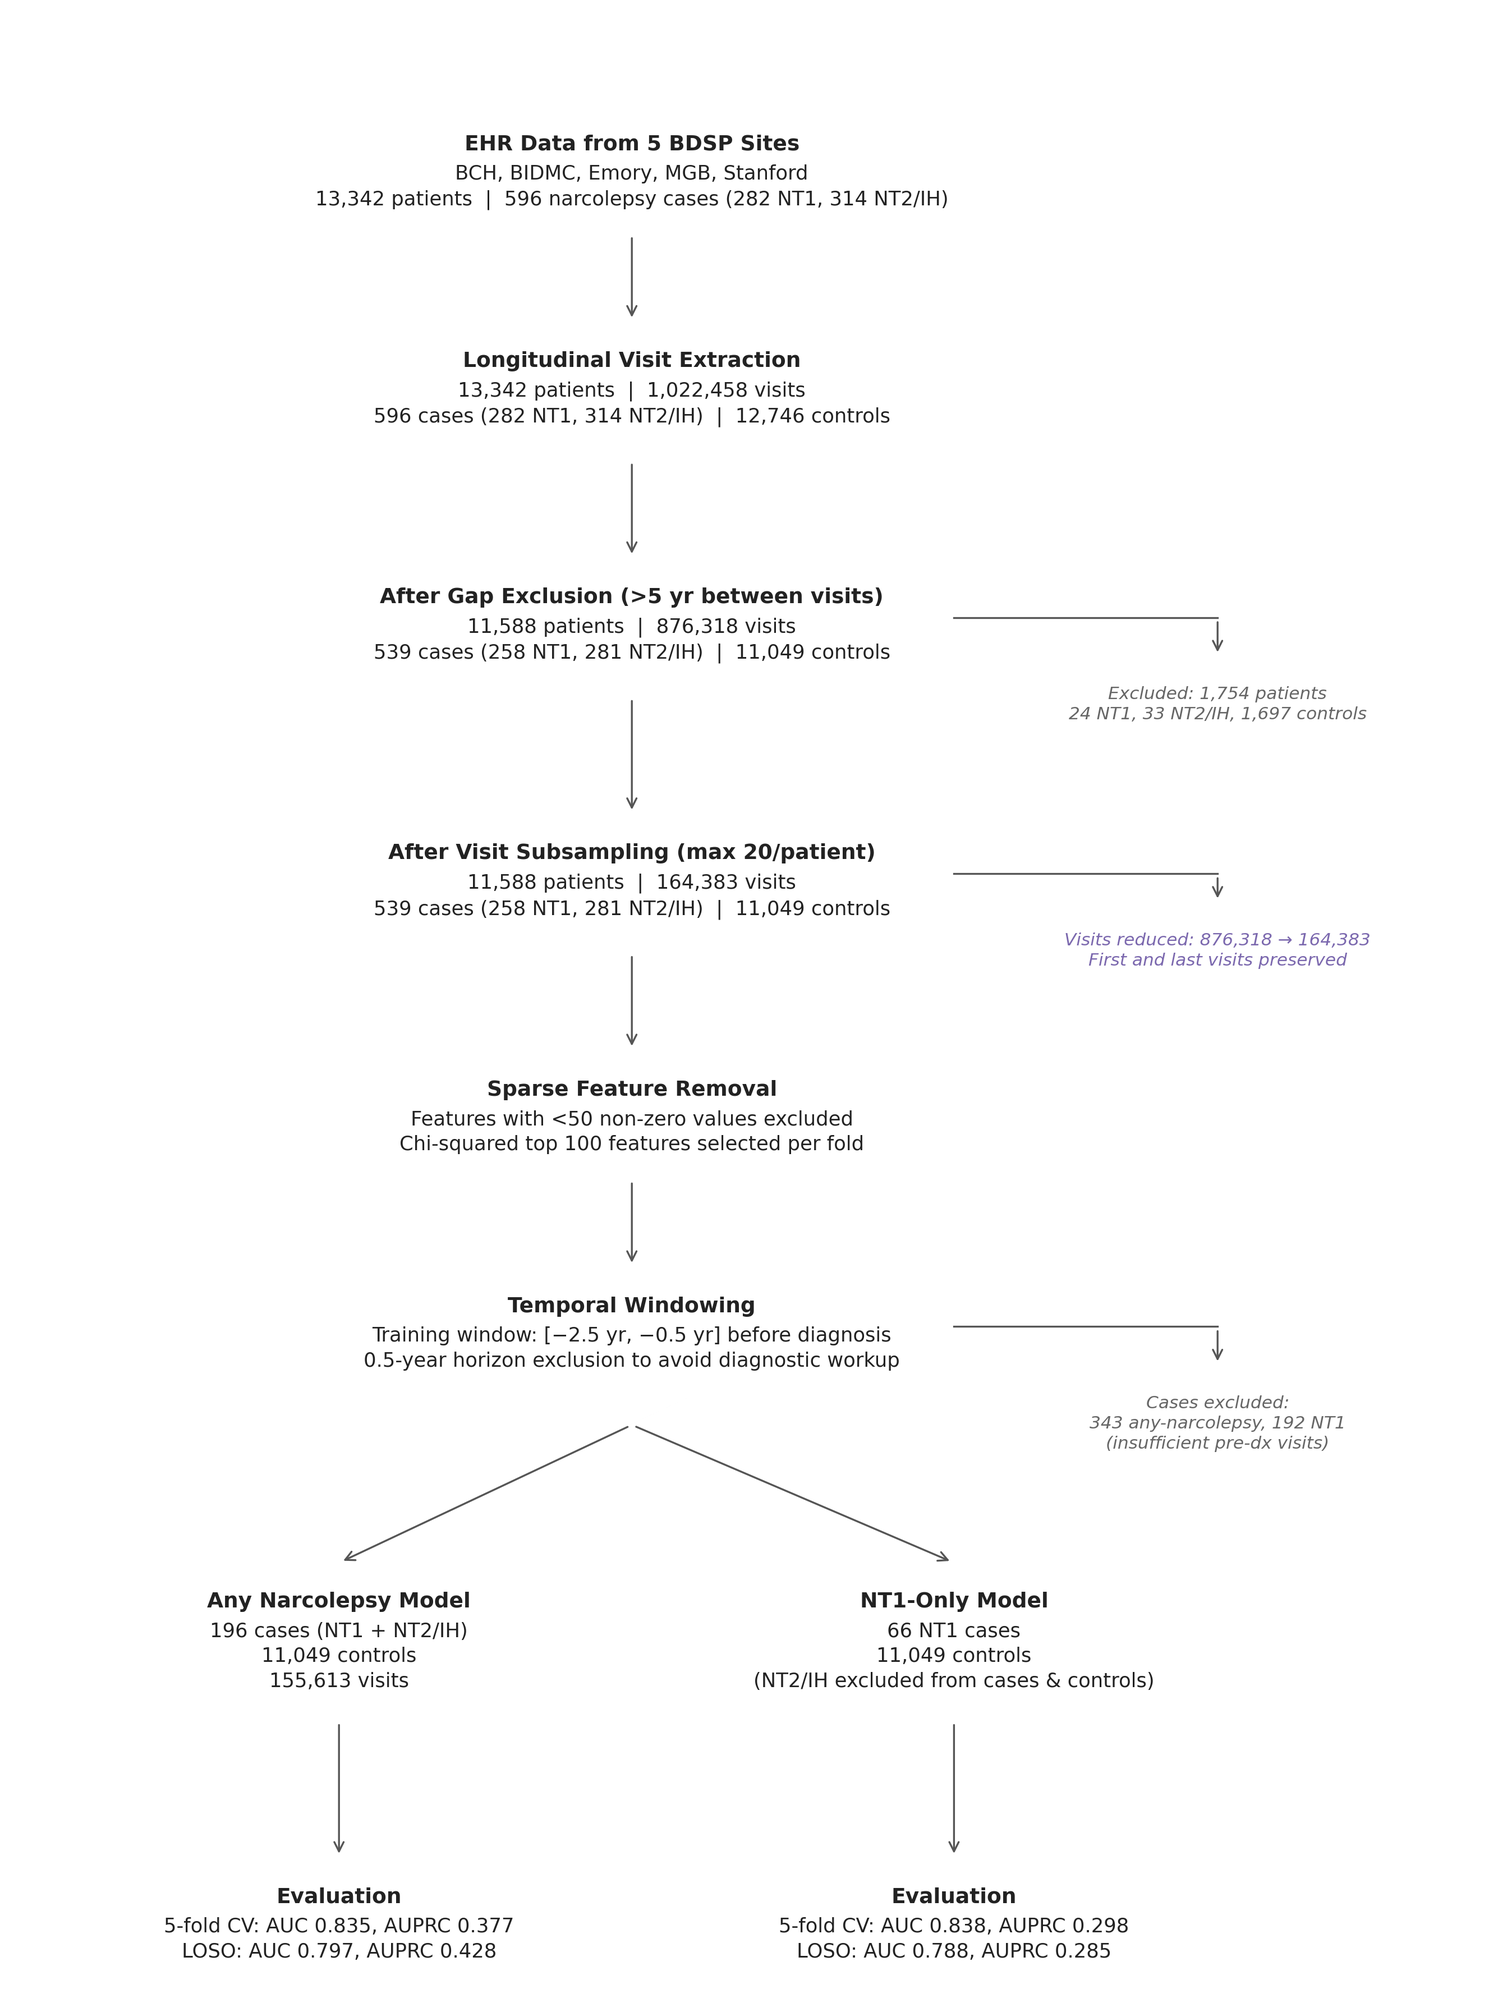
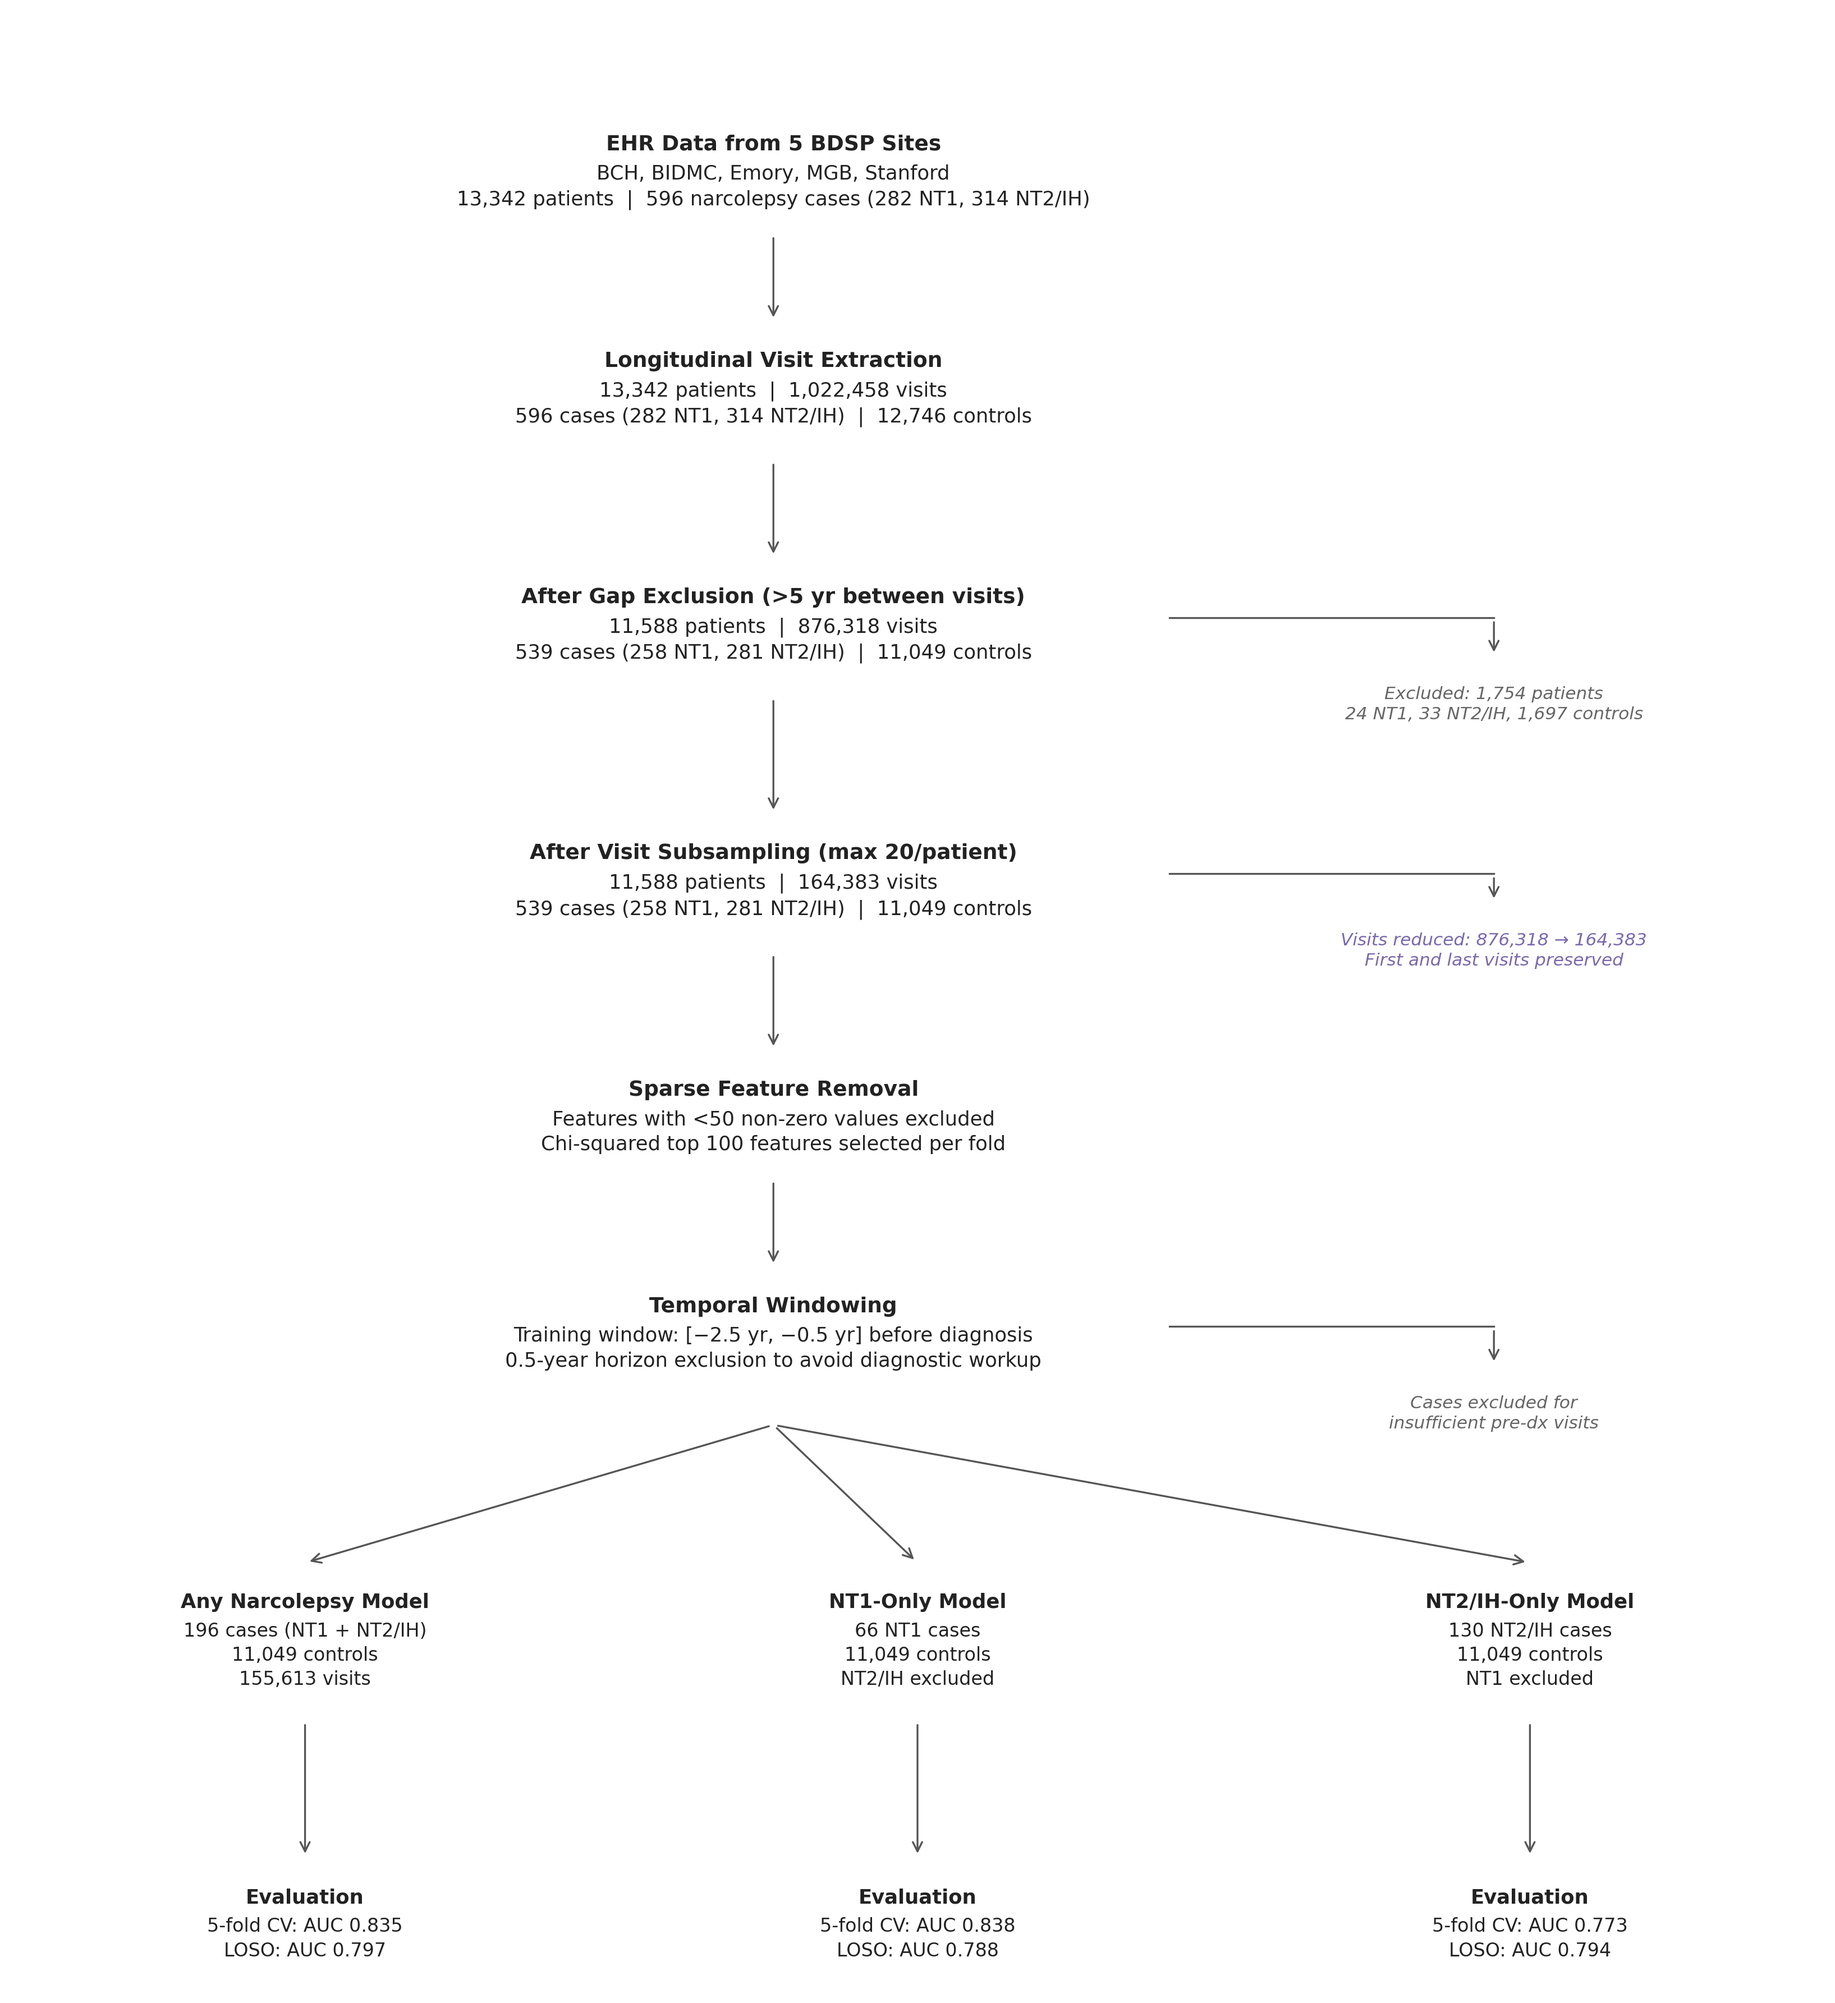
Update CONSORT diagrams to show all 3 classification/prediction tasks
Both cross-sectional (eFig 1) and longitudinal (eFig 2) CONSORT diagrams
now include NT1, NT2/IH, and any-narcolepsy branches with corresponding
evaluation metrics.

diff --git a/paper_figures/consort_diagrams.py b/paper_figures/consort_diagrams.py
@@ -71,7 +71,7 @@ SHARED_START_BODY = 'BCH, BIDMC, Emory, MGB, Stanford\n13,342 patients  |  596 n
 # eFigure 1: Cross-Sectional Classification Pipeline
 # =============================================================================
 def make_cross_sectional_consort():
-    fig, ax = plt.subplots(figsize=(9, 11))
+    fig, ax = plt.subplots(figsize=(11, 11))
     ax.set_xlim(0, 1)
     ax.set_ylim(0, 1)
     ax.axis('off')
@@ -120,40 +120,56 @@ def make_cross_sectional_consort():
               '8,694 notes with definitive labels\n'
               '(271 NT1 patients, 280 NT2/IH patients)')
 
-    # --- Split into two tasks ---
+    # --- Split into three tasks ---
     y6 = 0.30
-    left_x = 0.24
-    right_x = 0.66
+    left_x = 0.16
+    mid_x = 0.50
+    right_x = 0.84
 
     draw_arrow(ax, cx, y5 - 0.04, left_x, y6 + 0.025)
+    draw_arrow(ax, cx, y5 - 0.04, mid_x, y6 + 0.025)
     draw_arrow(ax, cx, y5 - 0.04, right_x, y6 + 0.025)
 
     draw_text(ax, left_x, y6,
               'NT1 vs. Others',
               'Positive: 620 notes\n'
-              'Negative: 8,074 notes (NT2/IH + Absent)')
+              'Negative: 8,074 notes\n'
+              '(NT2/IH + Absent)')
 
-    draw_text(ax, right_x, y6,
+    draw_text(ax, mid_x, y6,
               'NT2/IH vs. Others',
               'Positive: 360 notes\n'
-              'Negative: 8,334 notes (NT1 + Absent)')
+              'Negative: 8,334 notes\n'
+              '(NT1 + Absent)')
+
+    draw_text(ax, right_x, y6,
+              'Any Narcolepsy vs. Others',
+              'Positive: 980 notes\n'
+              'Negative: 7,714 notes\n'
+              '(Absent only)')
 
     # --- Evaluation ---
-    # Performance numbers will be filled in after retraining
-    y7 = 0.14
-    draw_arrow(ax, left_x, y6 - 0.045, left_x, y7 + 0.025)
-    draw_arrow(ax, right_x, y6 - 0.045, right_x, y7 + 0.025)
+    y7 = 0.12
+    draw_arrow(ax, left_x, y6 - 0.055, left_x, y7 + 0.025)
+    draw_arrow(ax, mid_x, y6 - 0.055, mid_x, y7 + 0.025)
+    draw_arrow(ax, right_x, y6 - 0.055, right_x, y7 + 0.025)
 
     draw_text(ax, left_x, y7,
               'LOSO Cross-Validation',
               '4 classifiers: LR, RF, GBT, XGB\n'
-              'Best: RF (AUROC 0.995, Sens 0.890)',
+              'Best: RF (AUROC 0.996)',
+              fontsize=8)
+
+    draw_text(ax, mid_x, y7,
+              'LOSO Cross-Validation',
+              '4 classifiers: LR, RF, GBT, XGB\n'
+              'Best: XGB (AUROC 0.977)',
               fontsize=8)
 
     draw_text(ax, right_x, y7,
               'LOSO Cross-Validation',
               '4 classifiers: LR, RF, GBT, XGB\n'
-              'Best: XGB (AUROC 0.977, Sens 0.586)',
+              'Best: XGB (AUROC 0.992)',
               fontsize=8)
 
     fig.tight_layout()
@@ -168,7 +184,7 @@ def make_cross_sectional_consort():
 # eFigure 2: Longitudinal Prediction Pipeline
 # =============================================================================
 def make_longitudinal_consort():
-    fig, ax = plt.subplots(figsize=(9, 12))
+    fig, ax = plt.subplots(figsize=(11, 12))
     ax.set_xlim(0, 1)
     ax.set_ylim(0, 1)
     ax.axis('off')
@@ -231,44 +247,63 @@ def make_longitudinal_consort():
               '0.5-year horizon exclusion to avoid diagnostic workup')
 
     draw_side_text(ax, cx + 0.22, y6 - 0.005, excl_x, y6 - 0.04,
-                   'Cases excluded:\n'
-                   '343 any-narcolepsy, 192 NT1\n'
-                   '(insufficient pre-dx visits)',
+                   'Cases excluded for\n'
+                   'insufficient pre-dx visits',
                    fontsize=7.5)
 
-    # --- Split into two outcome models ---
+    # --- Split into three outcome models ---
     y7 = 0.19
-    left_x = 0.22
-    right_x = 0.64
+    left_x = 0.16
+    mid_x = 0.50
+    right_x = 0.84
     draw_arrow(ax, cx, y6 - 0.055, left_x, y7 + 0.025)
+    draw_arrow(ax, cx, y6 - 0.055, mid_x, y7 + 0.025)
     draw_arrow(ax, cx, y6 - 0.055, right_x, y7 + 0.025)
 
     draw_text(ax, left_x, y7,
               'Any Narcolepsy Model',
               '196 cases (NT1 + NT2/IH)\n'
               '11,049 controls\n'
-              '155,613 visits')
+              '155,613 visits',
+              fontsize=8)
 
-    draw_text(ax, right_x, y7,
+    draw_text(ax, mid_x, y7,
               'NT1-Only Model',
               '66 NT1 cases\n'
               '11,049 controls\n'
-              '(NT2/IH excluded from cases & controls)')
+              'NT2/IH excluded',
+              fontsize=8)
+
+    draw_text(ax, right_x, y7,
+              'NT2/IH-Only Model',
+              '130 NT2/IH cases\n'
+              '11,049 controls\n'
+              'NT1 excluded',
+              fontsize=8)
 
     # --- Evaluation ---
     y8 = 0.04
     draw_arrow(ax, left_x, y7 - 0.055, left_x, y8 + 0.025)
+    draw_arrow(ax, mid_x, y7 - 0.055, mid_x, y8 + 0.025)
     draw_arrow(ax, right_x, y7 - 0.055, right_x, y8 + 0.025)
 
     draw_text(ax, left_x, y8,
               'Evaluation',
-              '5-fold CV: AUC 0.835, AUPRC 0.377\n'
-              'LOSO: AUC 0.797, AUPRC 0.428')
+              '5-fold CV: AUC 0.835\n'
+              'LOSO: AUC 0.797',
+              fontsize=8)
+
+    draw_text(ax, mid_x, y8,
+              'Evaluation',
+              '5-fold CV: AUC 0.838\n'
+              'LOSO: AUC 0.788',
+              fontsize=8)
 
     draw_text(ax, right_x, y8,
               'Evaluation',
-              '5-fold CV: AUC 0.838, AUPRC 0.298\n'
-              'LOSO: AUC 0.788, AUPRC 0.285')
+              '5-fold CV: AUC 0.773\n'
+              'LOSO: AUC 0.794',
+              fontsize=8)
 
     fig.tight_layout()
     os.makedirs('../manuscript/figures', exist_ok=True)
